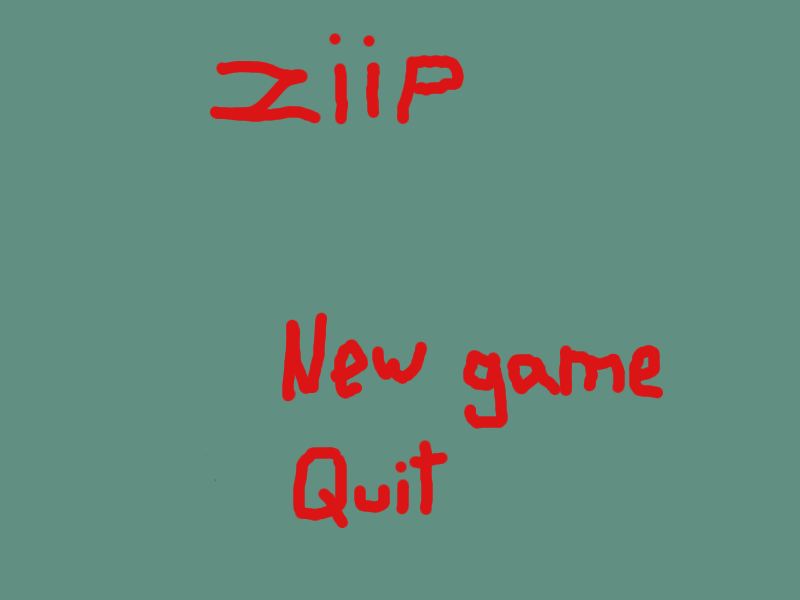
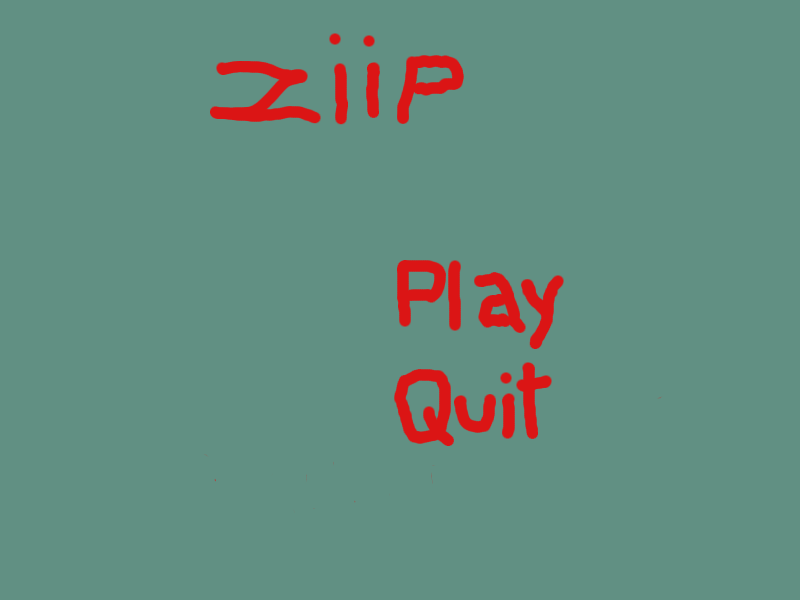
Make main menu look "normal" again.

Changed region(s): [[0.3438, 0.42, 0.8438, 0.9]]

diff --git a/Resources.cpp b/Resources.cpp
@@ -54,6 +54,7 @@ Resources::Resources():
     _board(0),
     _player(0),
     _gOver(0),
+    _proportion(1.f),
     _currBlockSize(origPieceSize)
 {
     _screen = SDL_SetVideoMode( WINDOW_WIDTH, WINDOW_HEIGHT, BITDEPTH,
@@ -170,18 +171,18 @@ void
 Resources::prepareBoardGraphics(int newBlockSize)
 {
     _currBlockSize = newBlockSize;
-    const float proportion = static_cast<float>(newBlockSize) / origPieceSize;
+    const float _proportion = static_cast<float>(newBlockSize) / origPieceSize;
     if (_pieces != 0)
         SDL_FreeSurface(_pieces);
-    _pieces = rescaleAndOptimize(_origPieces, proportion);
+    _pieces = rescaleAndOptimize(_origPieces, _proportion);
     SDL_FreeSurface(_origPieces);
     if (_player != 0)
         SDL_FreeSurface(_player);
-    _player = rescaleAndOptimize(_origPlayer, proportion);
+    _player = rescaleAndOptimize(_origPlayer, _proportion);
     SDL_FreeSurface(_origPlayer);
     if (_gOver != 0)
         SDL_FreeSurface(_gOver);
-    _gOver = rescaleAndOptimize(_origGOver, proportion);
+    _gOver = rescaleAndOptimize(_origGOver, _proportion);
     SDL_FreeSurface(_origGOver);
 }
 
@@ -190,6 +191,12 @@ Resources::getScreenSize(int &width, int &height)
 {
     width = WINDOW_WIDTH;
     height = WINDOW_HEIGHT;
+}
+
+float
+Resources::getProportion()
+{
+    return _proportion;
 }
 
 int

diff --git a/Main.cpp b/Main.cpp
@@ -169,17 +169,20 @@ Main::run()
     return 0;
 }
 
+const int Main::MainMenu::SelStepPx = 100;
+
 Main::MainMenu::MainMenu(Resources *rsc):
     _rsc(rsc),
     _selOpt(0)
 {
     int scrW, scrH;
     _rsc->getScreenSize(scrW, scrH);
+    const int scaledSelSize = SelStepPx * _rsc->getProportion();
     SDL_Rect rect;
-    rect.x = scrW / 2 - 200;
-    rect.y = scrH / 2 - 70;
+    rect.x = scrW / 2 - scaledSelSize/10 - scaledSelSize;
+    rect.y = scrH / 2 - scaledSelSize/2;
     _selOptRect.push_back(rect);
-    rect.y += 100;
+    rect.y += scaledSelSize;
     _selOptRect.push_back(rect);
 }
 

diff --git a/Resources.hpp b/Resources.hpp
@@ -20,6 +20,7 @@ class Resources
         SDL_Surface *player();
         SDL_Surface *gameOver();
         void getScreenSize(int &width, int &height);
+        float getProportion();
         int getBlockSize();
 
     private:
@@ -42,6 +43,7 @@ class Resources
         SDL_Surface *_player;
         SDL_Surface *_origGOver;
         SDL_Surface *_gOver;
+        float _proportion;
         int _currBlockSize;
 };
 

diff --git a/Main.hpp b/Main.hpp
@@ -30,6 +30,7 @@ class Main
                 Option operator()();
 
             private:
+                static const int SelStepPx;
                 Resources *_rsc;
                 size_t _selOpt;
                 std::vector<SDL_Rect> _selOptRect;
